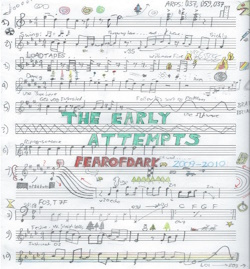
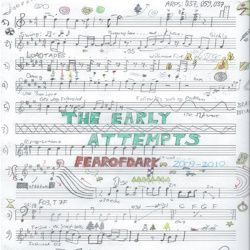
changed button linking
buttons now link to their file directories, and not to a github link.

diff --git a/index.html b/index.html
@@ -26,31 +26,31 @@
     <div>
       <h1>Pages</h1>
 
-      <a href="https://philoxy.github.io/programmer">
+      <a href="/programmer">
         <button><h4>My Projects</h4></button>
       </a>
 
-      <a href="https://philoxy.github.io/blog">
+      <a href="/blog">
         <button><h4>Blog</h4></button>
       </a>
 
       <br>
 
-      <a href="https://philoxy.github.io/servers">
+      <a href="/servers">
         <button><h4>My Servers</h4></button>
       </a>
 
-      <a href="https://philoxy.github.io/sasquatch">
+      <a href="/sasquatch">
         <button><h4>Sneaky Sasquatch</h4></button>
       </a>
 
       <br>
 
-      <a href="https://philoxy.github.io/characters">
+      <a href="/characters">
         <button><h4>My OCs</h4></button>
       </a>
 
-      <a href="https://philoxy.github.io/music">
+      <a href="/music">
         <button><h4>Music I like</h4></button>
       </a>
     </div>
@@ -71,8 +71,9 @@
 
     <hr>
 
-    <div>
-      <h1>Web Neighbours</h1>
+    <h1>Web Neighbours</h1>
+
+    <div class="buttons">
 
       <a href="https://flowers-and-marshmallows.pages.gay" target="_blank" rel="noopener noreferrer">
         <button><h4>Flowers and Marshmallows' Website</h4></button>
@@ -99,13 +100,13 @@
       <hr>
 
       <h2>22nd Feb 2026</h2>
-      <h3>- Added a global CSS file so that I don't have to add one feature to every single CSS file<br>- FINALLY finished projects page!!<br>- New icon<br>- 404 page!<br>- Made external links open in new tab</h3>
+      <h3>- Added a global CSS file so that I don't have to add one feature to every single CSS file<br>- FINALLY finished projects page!!<br>- New icon<br>- 404 page!<br>- Made external links open in new tab<br>- Fixed that slightly off album cover</h3>
     </div>
 
     <div class="divideSection paragraph">
       <h1>To-do List</h1>
 
-      <h3>- Work on new pages<br>- Fix uneven album cover<br>- Find a way to display the readme on the website so I don't have to manually update the changelog (apparently requires JS, so maybe not)</h3>
+      <h3>- Work on new pages<br>- Find a way to display the readme on the website so I don't have to manually update the changelog (apparently requires JS, so maybe not)</h3>
     </div>
   </div>
   

diff --git a/music/index.html b/music/index.html
@@ -14,14 +14,14 @@
 
   <div id="boxy">
     <div>
-      <a href="https://philoxy.github.io">
+      <a href="/">
         <button><h3>Back to home</h3></button>
       </a>
     </div>
 
     <div class="paragraph">
       <h1>Here's my favourite music!</h1>
-      <h2>(click on the images to go to my favourite album of each artist)</h2>
+      <h2>(click on the images to go to my favourite album/song of each artist)</h2>
       <h2>i will update this when i find a new artist i like</h2>
     </div>
 
@@ -82,6 +82,22 @@
 
       <a href="https://ex-lyd.bandcamp.com/album/lucid" target="_blank" rel="noopener noreferrer">
         <img src="/assets/album_covers/lucid.jpg" alt="Lucid">
+      </a>
+    </div>
+
+    <br>
+
+    <div class="divideAlbums">
+      <a href="https://www.youtube.com/channel/UCddGmA-dAoyEFBUIe39t7TA" class="fade" target="_blank" rel="noopener noreferrer">Caramell</a>
+
+      <br>
+
+      <h2>Caramelldansen</h2>
+
+      <br>
+
+      <a href="https://www.youtube.com/watch?v=SeMXa5lBGYc" target="_blank" rel="noopener noreferrer">
+        <img src="/assets/album_covers/Caramelldansen.png" alt="Caramelldansen">
       </a>
     </div>
 

diff --git a/blog/index.html b/blog/index.html
@@ -13,7 +13,7 @@
   <body>
 
     <div id="boxy">
-      <a href="https://philoxy.github.io">
+      <a href="/">
         <button><h4>Back to Home</h4></button>
       </a>
       <h1>no not yet</h1>

diff --git a/characters/index.html b/characters/index.html
@@ -13,7 +13,7 @@
   <body>
 
     <div id="boxy">
-      <a href="https://philoxy.github.io">
+      <a href="/">
         <button><h4>Back to Home</h4></button>
       </a>
       <h1>no not yet</h1>

diff --git a/programmer/index.html b/programmer/index.html
@@ -16,7 +16,7 @@
 
     <div id="boxy">
       <div>
-        <a href="https://philoxy.github.io">
+        <a href="/">
           <button><h4>Back to Home</h4></button>
         </a>
       </div>

diff --git a/servers/index.html b/servers/index.html
@@ -14,7 +14,7 @@
 
     <div id="boxy">
       <div>
-        <a href="https://philoxy.github.io">
+        <a href="/">
           <button><h4>Back to Home</h4></button>
         </a>
       </div>

diff --git a/sasquatch/index.html b/sasquatch/index.html
@@ -14,7 +14,7 @@
 
   <div id="boxy">
     <div>
-      <a href="https://philoxy.github.io">
+      <a href="/">
         <button><h4>Back to home</button></h4>
       </a>
     </div>

diff --git a/README.md b/README.md
@@ -7,7 +7,6 @@ Hello, welcome to Philooxy's horribly coded website!!
 ## To-Do List:
 
 * [ ] Work on new pages
-* [ ] Fix uneven album cover
 * [ ] Find a way to display the readme on the website so I don't have to manually update the changelog (apparently requires JS, so maybe not)
 
 ## Changelog
@@ -28,3 +27,4 @@ Hello, welcome to Philooxy's horribly coded website!!
 * New icon
 * 404 page!
 * Made external links open in new tab
+* Fixed that slightly off album cover
